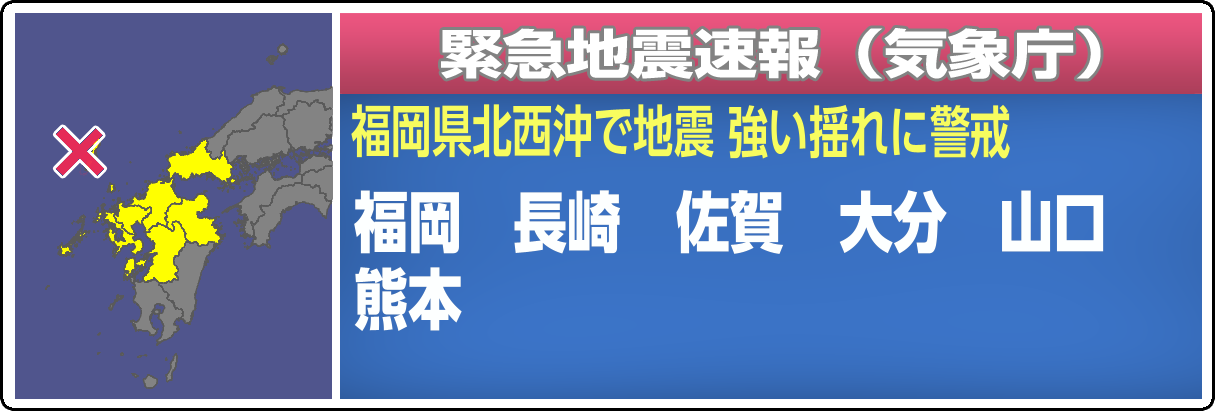
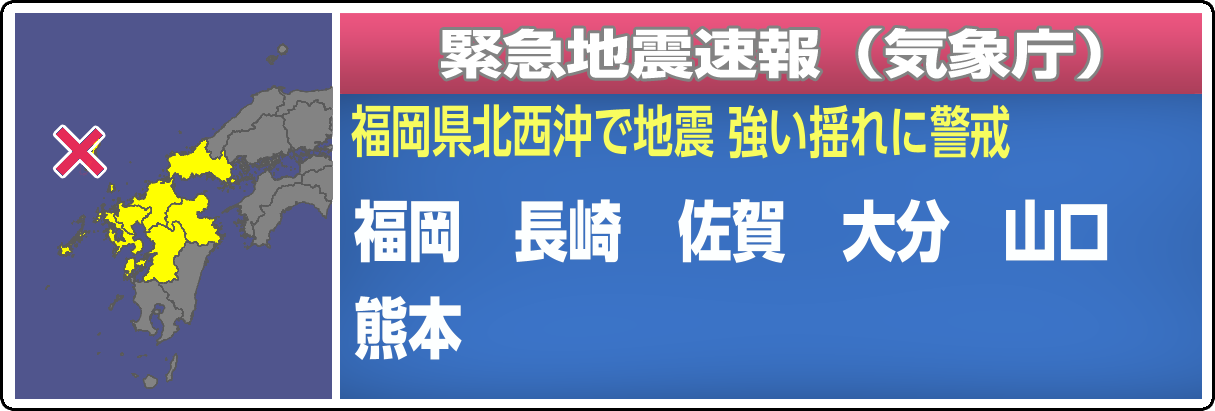
fix(render): 按实拍画面校正地名行距与首行位置
以两行地名的实拍画面为基准（统一到 1215px 坐标系）实测：
行距 95.7px ≈ 1.47×字高，上一行底到下一行顶 32.5px，
相邻地名墨迹间隔 58px，首行墨迹顶部 y=199.9。
原实现行距仅 76px（1.2×字高）、首行偏高 9px。

PREF_PITCH 76→96、PREF_TOP 189→198、PREF_GAP 52→53。

diff --git a/src/render.rs b/src/render.rs
@@ -41,12 +41,14 @@ fn tune_i(name: &str, default: usize) -> usize {
 }
 
 // Typography measured from the reference screenshots
+// Note: vertical rhythm re-measured from a 2-line broadcast frame — line pitch
+// is 1.474x the cap height (95.7px at 1215 width), not the 1.2x it used to be.
 const PREF_SIZE: f32 = 66.0;
 const PREF_SX: f32 = 0.82;
-const PREF_GAP: f32 = 52.0;
+const PREF_GAP: f32 = 53.0;
 const PREF_LEFT: f32 = 353.0;
-const PREF_TOP: f32 = 189.0;
-const PREF_PITCH: f32 = 76.0;
+const PREF_TOP: f32 = 198.0;
+const PREF_PITCH: f32 = 96.0;
 const PREF_OUTLINE: usize = 0;
 
 const SUB_SIZE: f32 = 56.0;

diff --git a/README.md b/README.md
@@ -100,6 +100,22 @@ powershell -NoProfile -ExecutionPolicy Bypass -File tools\uninstall_autostart.ps
 
 ## 地区名排版法则
 
+### 版式参数（按实际播出画面逐像素实测）
+
+以一张两行地名的实拍画面（熊本／長崎／鹿児島／福岡 + 佐賀／大分／宮崎）为基准，
+投影到本项目的 1215px 坐标系后测得：
+
+| 参数 | 实测值 | 实现 |
+|---|---|---|
+| 首行文字墨迹顶部 | y = 199.9 | `PREF_TOP = 198`（+字面留白） |
+| 行距（行顶到行顶） | 95.7px ≈ **1.47 × 字高** | `PREF_PITCH = 96` |
+| 上一行底 → 下一行顶 | 32.5px | 由行距与字高推出，约 33px |
+| 相邻地名墨迹间隔 | 58px | `PREF_GAP = 53`（+字面侧留白） |
+| 首行四个地名的总跨度 | 635.7px | 实测 636px |
+
+字号与横向压缩（66px、`PREF_SX = 0.82`）在 1～2 字与 3 字地名上都对得上，
+所以只调纵向节奏，不动横向。
+
 默认显示府県予報区名，每行最多 **14 字**（词间空隙计 1 字），最多两行；超过两行时切换为
 地方予報区名，并遵循：
 
